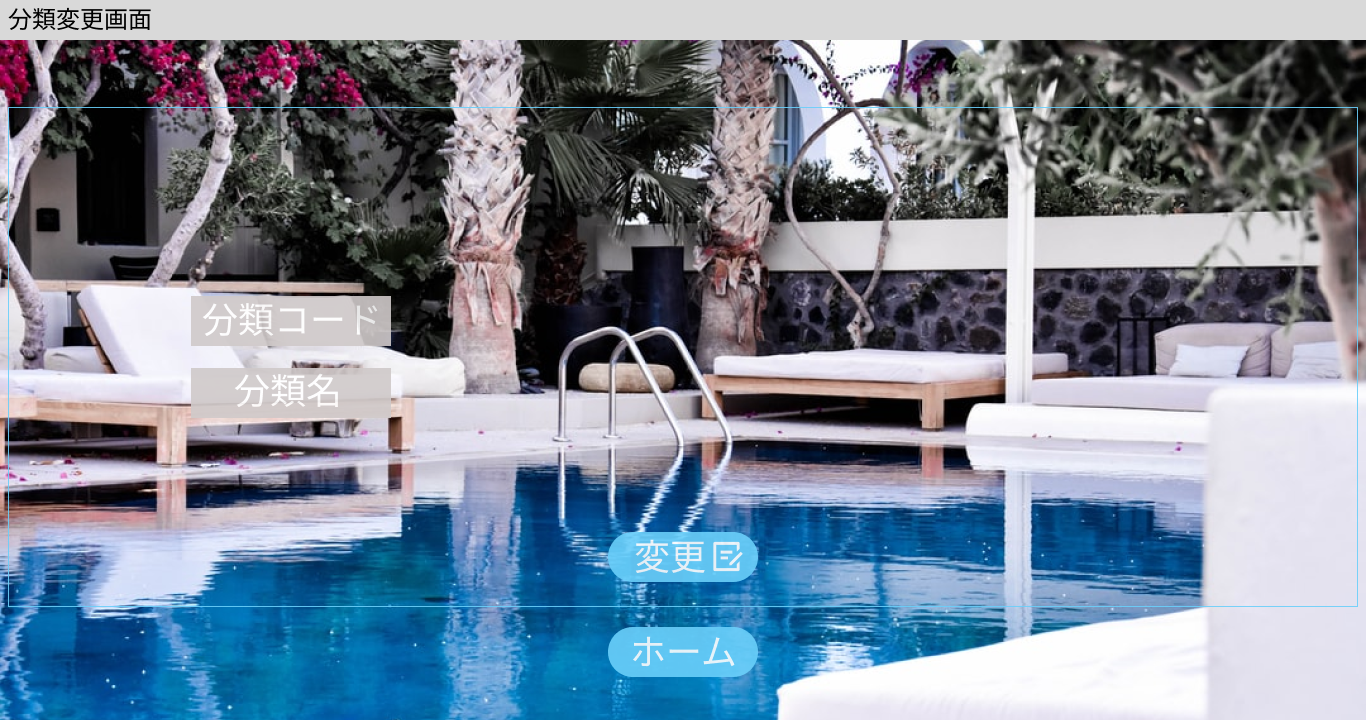
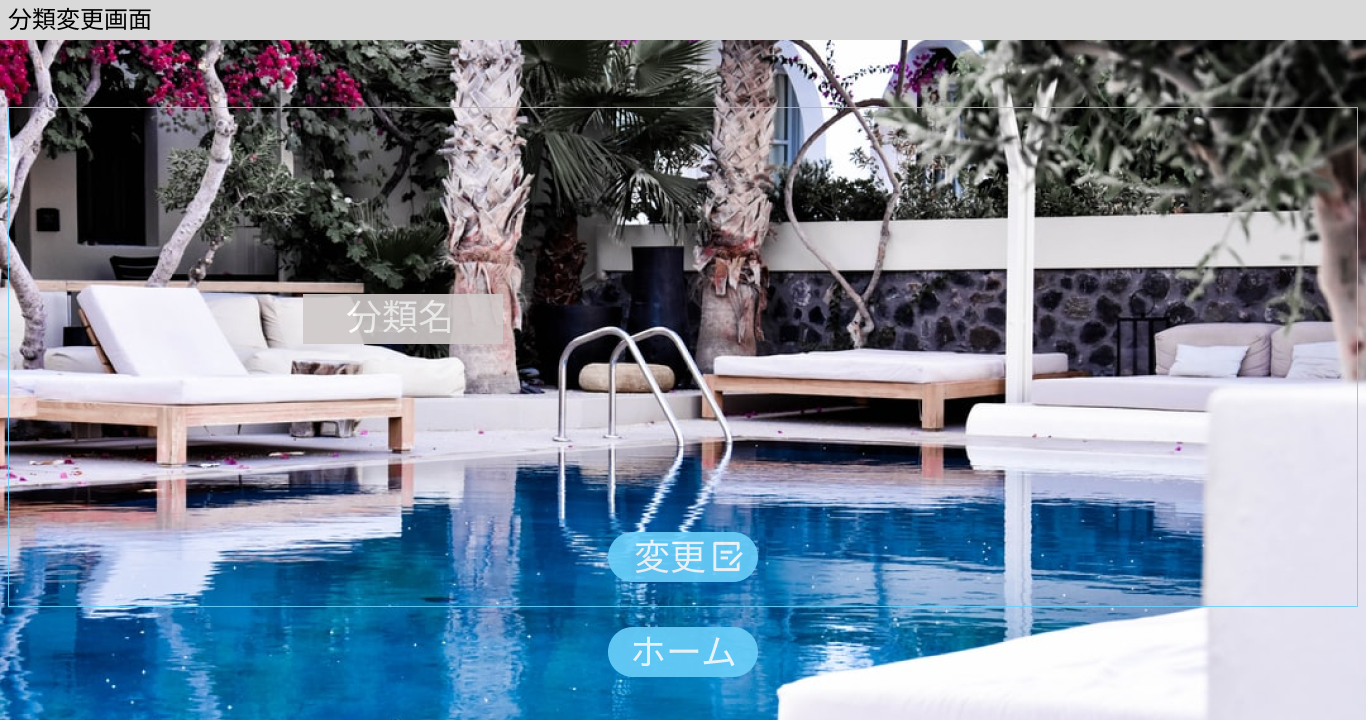
add kansei

Changed region(s): [[0.123, 0.3972, 0.369, 0.5806]]

diff --git a/ThanksCardClient/Views/CreateThanksCard.xaml b/ThanksCardClient/Views/CreateThanksCard.xaml
@@ -14,31 +14,31 @@
         <Button Content="" HorizontalAlignment="Left" Height="50" Margin="509,576,0,0" VerticalAlignment="Top" Width="150" Opacity="0" Cursor="Hand" Command="{Binding SubmitCommand}"/>
         <!--Button Content="Button" HorizontalAlignment="Left" Height="50" Margin="708,576,0,0" VerticalAlignment="Top" Width="150" Opacity="0" Cursor="Hand" Command="{Binding ClearCommand}"/-->
         <Button Content="Button" HorizontalAlignment="Center" Height="50" Margin="0,650,0,0" VerticalAlignment="Top" Width="150" Opacity="0" Command="{Binding HomeCommand}" Cursor="Hand"/>
-        <TextBox HorizontalAlignment="Left" Height="40" Margin="275,72,0,0" TextWrapping="Wrap" Text="{Binding ThanksCard.Title}" VerticalAlignment="Top" Width="550" FontSize="24" Opacity="0.8"/>
-        <ComboBox x:Name="ToOrganizations" ItemsSource="{Binding Organizations}" DisplayMemberPath="OrganizationName" SelectedValuePath="Id" HorizontalAlignment="Left" Height="40" Margin="275,121,0,0" VerticalAlignment="Top" Width="470" FontSize="24" Opacity="0.8">
+        <TextBox HorizontalAlignment="Left" Height="40" Margin="275,72,0,0" TextWrapping="Wrap" Text="{Binding ThanksCard.Title}" VerticalAlignment="Top" Width="550" FontSize="24" Opacity="0.9"/>
+        <ComboBox x:Name="ToOrganizations" ItemsSource="{Binding Organizations}" DisplayMemberPath="OrganizationName" SelectedValuePath="Id" HorizontalAlignment="Left" Height="40" Margin="275,121,0,0" VerticalAlignment="Top" Width="470" FontSize="24" Opacity="0.9">
             <i:Interaction.Triggers>
                 <i:EventTrigger EventName="SelectionChanged">
                     <i:InvokeCommandAction Command="{Binding ToOrganizationsChangedCommand}" CommandParameter="{Binding ElementName=ToOrganizations, Path=SelectedValue}"/>
                 </i:EventTrigger>
             </i:Interaction.Triggers>
         </ComboBox>
-        <ComboBox ItemsSource="{Binding ToEmployees}" DisplayMemberPath="EmployeeName" SelectedValue="{Binding ThanksCard.ToId}" SelectedValuePath="Id" HorizontalAlignment="Left" Height="40" Margin="275,170,0,0" VerticalAlignment="Top" Width="350" FontSize="24" Opacity="0.8"/>
-        <ListBox ItemsSource="{Binding Classifications}" IsSynchronizedWithCurrentItem="True" SelectionMode="Multiple" DisplayMemberPath="ClassificationName" HorizontalAlignment="Left" Height="89" Margin="857,121,0,0" VerticalAlignment="Top" Width="210" FontSize="24" Opacity="0.8">
+        <ComboBox ItemsSource="{Binding ToEmployees}" DisplayMemberPath="EmployeeName" SelectedValue="{Binding ThanksCard.ToId}" SelectedValuePath="Id" HorizontalAlignment="Left" Height="40" Margin="275,170,0,0" VerticalAlignment="Top" Width="350" FontSize="24" Opacity="0.9"/>
+        <ListBox ItemsSource="{Binding Classifications}" IsSynchronizedWithCurrentItem="True" SelectionMode="Multiple" DisplayMemberPath="ClassificationName" HorizontalAlignment="Left" Height="89" Margin="857,121,0,0" VerticalAlignment="Top" Width="210" FontSize="24" Opacity="0.9">
             <ListBox.ItemContainerStyle>
                 <Style TargetType="ListBoxItem">
                     <Setter Property="IsSelected" Value="{Binding Selected}" />
                 </Style>
             </ListBox.ItemContainerStyle>
         </ListBox>
-        <TextBox HorizontalAlignment="Left" Height="175" Margin="275,222,0,0" TextWrapping="Wrap" Text="{Binding ThanksCard.Contents}" VerticalAlignment="Top" Width="792" FontSize="24" Opacity="0.8"/>
-        <ComboBox x:Name="FromOrganizations" ItemsSource="{Binding Organizations}" DisplayMemberPath="OrganizationName" SelectedValuePath="Id" HorizontalAlignment="Left" Height="40" Margin="275,407,0,0" VerticalAlignment="Top" Width="470" FontSize="24" Opacity="0.8">
+        <TextBox HorizontalAlignment="Left" Height="175" Margin="275,222,0,0" TextWrapping="Wrap" Text="{Binding ThanksCard.Contents}" VerticalAlignment="Top" Width="792" FontSize="24" Opacity="0.9"/>
+        <ComboBox x:Name="FromOrganizations" ItemsSource="{Binding Organizations}" DisplayMemberPath="OrganizationName" SelectedValuePath="Id" HorizontalAlignment="Left" Height="40" Margin="275,407,0,0" VerticalAlignment="Top" Width="470" FontSize="24" Opacity="0.9">
             <i:Interaction.Triggers>
                 <i:EventTrigger EventName="SelectionChanged">
                     <i:InvokeCommandAction Command="{Binding FromOrganizationsChangedCommand}" CommandParameter="{Binding ElementName=FromOrganizations, Path=SelectedValue}"/>
                 </i:EventTrigger>
             </i:Interaction.Triggers>
         </ComboBox>
-        <ComboBox ItemsSource="{Binding FromEmployees}" DisplayMemberPath="EmployeeName" SelectedValue="{Binding ThanksCard.FromId}" SelectedValuePath="Id" HorizontalAlignment="Left" Height="40" Margin="275,456,0,0" VerticalAlignment="Top" Width="350" FontSize="24" Opacity="0.8"/>
-        <DatePicker SelectedDate="{Binding ThanksCard.Date}" HorizontalAlignment="Left" Height="40" VerticalAlignment="Top" Width="350" Margin="275,506,0,0" FontSize="24"/>
+        <ComboBox ItemsSource="{Binding FromEmployees}" DisplayMemberPath="EmployeeName" SelectedValue="{Binding ThanksCard.FromId}" SelectedValuePath="Id" HorizontalAlignment="Left" Height="40" Margin="275,456,0,0" VerticalAlignment="Top" Width="350" FontSize="24" Opacity="0.9"/>
+        <DatePicker SelectedDate="{Binding ThanksCard.Date}" HorizontalAlignment="Left" Height="40" VerticalAlignment="Top" Width="350" Margin="275,506,0,0" FontSize="24" Opacity="0.9"/>
     </Grid>
 </UserControl>

diff --git a/ThanksCardClient/Views/ThanksCardDisplay.xaml b/ThanksCardClient/Views/ThanksCardDisplay.xaml
@@ -11,17 +11,18 @@
     </UserControl.Background>
     <Grid Visibility="Visible">
         <Grid.Background>
-            <ImageBrush ImageSource="/Views/表示画面.png"/>
+            <ImageBrush ImageSource="/Views/感謝カード表示.png"/>
         </Grid.Background>
-        <Button Command="{Binding HomeCommand}" HorizontalAlignment="Left" Height="62" Margin="122,34,0,0" VerticalAlignment="Top" Width="161" Opacity="0" Cursor="Hand"/>
-        <TextBox HorizontalAlignment="Left" Height="156" Margin="251,133,0,0" TextWrapping="Wrap" Text="{Binding ThanksCard.Contents}" VerticalAlignment="Top" Width="1017" FontSize="24" Background="{x:Null}" BorderBrush="#00000000" TextChanged="TextBox_TextChanged"/>
-        <TextBlock HorizontalAlignment="Left" Height="39" Margin="82,125,0,0" TextWrapping="Wrap" Text="{Binding ThanksCard.From.EmployeeName}" VerticalAlignment="Top" Width="163" FontSize="24" Padding="45,0,0,0"/>
-        <TextBlock HorizontalAlignment="Left" Height="39" Margin="82,199,0,0" TextWrapping="Wrap" Text="{Binding ThanksCard.To.EmployeeName}" VerticalAlignment="Top" Width="163" FontSize="24" Padding="45,0,0,0"/>
+        <Button Command="{Binding HomeCommand}" HorizontalAlignment="Left" Height="62" Margin="623,603,0,0" VerticalAlignment="Top" Width="161" Opacity="0" Cursor="Hand"/>
+        <TextBox HorizontalAlignment="Left" Height="233" Margin="256,343,0,0" TextWrapping="Wrap" Text="{Binding ThanksCard.Contents}" VerticalAlignment="Top" Width="1017" FontSize="24" Background="{x:Null}" BorderBrush="#00000000" TextChanged="TextBox_TextChanged"/>
+        <TextBlock HorizontalAlignment="Left" Height="39" Margin="123,313,0,0" TextWrapping="Wrap" Text="{Binding ThanksCard.From.EmployeeName}" VerticalAlignment="Top" Width="122" FontSize="24" Padding="45,0,0,0"/>
+        <TextBlock HorizontalAlignment="Left" Height="39" Margin="123,392,0,0" TextWrapping="Wrap" Text="{Binding ThanksCard.To.EmployeeName}" VerticalAlignment="Top" Width="122" FontSize="24" Padding="45,0,0,0"/>
         <TextBlock HorizontalAlignment="Left" Height="39" Margin="1130,44,0,0" TextWrapping="Wrap" Text="{Binding ThanksCard.Date}" VerticalAlignment="Top" Width="169" FontSize="24" Padding="40,0,0,0"/>
-        <Rectangle HorizontalAlignment="Left" Height="260" Margin="245,29,0,0" VerticalAlignment="Top" Width="920">
+        <Rectangle HorizontalAlignment="Center" Height="242" Margin="0,21,0,0" VerticalAlignment="Top" Width="920">
             <Rectangle.Fill>
                 <ImageBrush ImageSource="/Views/3424906.png"/>
             </Rectangle.Fill>
         </Rectangle>
+        <TextBlock HorizontalAlignment="Left" Height="50" Margin="297,274,0,0" TextWrapping="Wrap" Text="{Binding ThanksCard.Title}" VerticalAlignment="Top" Width="930" FontSize="36"/>
     </Grid>
 </UserControl>

diff --git a/ThanksCardClient/Views/EmployeeEdit.xaml b/ThanksCardClient/Views/EmployeeEdit.xaml
@@ -10,13 +10,13 @@
         <Grid.Background>
             <ImageBrush ImageSource="/Views/社員変更画面.png"/>
         </Grid.Background>
-        <TextBox HorizontalAlignment="Left" Height="50" Margin="550,132,0,0" TextWrapping="Wrap" Text="{Binding Employee.EmployeeCd}" VerticalAlignment="Top" Width="250"/>
-        <TextBox HorizontalAlignment="Left" Height="50" Margin="550,201,0,0" TextWrapping="Wrap" Text="{Binding Employee.EmployeeName}" VerticalAlignment="Top" Width="350"/>
-        <TextBox HorizontalAlignment="Left" Height="50" Margin="550,275,0,0" TextWrapping="Wrap" Text="{Binding Employee.Furigana}" VerticalAlignment="Top" Width="350"/>
-        <TextBox HorizontalAlignment="Left" Height="50" Margin="550,349,0,0" TextWrapping="Wrap" Text="{Binding Employee.Password}" VerticalAlignment="Top" Width="250"/>
+        <TextBox HorizontalAlignment="Left" Height="50" Margin="550,132,0,0" TextWrapping="Wrap" Text="{Binding Employee.EmployeeCd}" VerticalAlignment="Top" Width="250" Opacity="0.9" FontSize="36"/>
+        <TextBox HorizontalAlignment="Left" Height="50" Margin="550,201,0,0" TextWrapping="Wrap" Text="{Binding Employee.EmployeeName}" VerticalAlignment="Top" Width="350" Opacity="0.9" FontSize="36"/>
+        <TextBox HorizontalAlignment="Left" Height="50" Margin="550,275,0,0" TextWrapping="Wrap" Text="{Binding Employee.Furigana}" VerticalAlignment="Top" Width="350" Opacity="0.9" FontSize="36"/>
+        <TextBox HorizontalAlignment="Left" Height="50" Margin="550,349,0,0" TextWrapping="Wrap" Text="{Binding Employee.Password}" VerticalAlignment="Top" Width="250" Opacity="0.9" FontSize="36"/>
         <Button Content="" HorizontalAlignment="Center" Height="50" Margin="0,571,0,0" VerticalAlignment="Top" Width="150" Opacity="0.012" Command="{Binding SubmitCommand}" Cursor="Hand"/>
         <Button Content="" HorizontalAlignment="Center" Height="50" Margin="0,642,0,0" VerticalAlignment="Top" Width="150" Opacity="0.012" Command="{Binding HomeCommand}" Cursor="Hand"/>
-        <ComboBox ItemsSource="{Binding Organizations}" DisplayMemberPath="OrganizationName" SelectedValue="{Binding Employee.OrganizationId}" SelectedValuePath="Id" HorizontalAlignment="Left" Height="56" Margin="550,422,0,0" VerticalAlignment="Top" Width="370"/>
+        <ComboBox ItemsSource="{Binding Organizations}" DisplayMemberPath="OrganizationName" SelectedValue="{Binding Employee.OrganizationId}" SelectedValuePath="Id" HorizontalAlignment="Left" Height="56" Margin="550,422,0,0" VerticalAlignment="Top" Width="370" Opacity="0.9" FontSize="36"/>
         <CheckBox Content="" HorizontalAlignment="Left" Margin="565,517,0,0" VerticalAlignment="Top" IsChecked="{Binding Employee.IsAdmin}"/>
     </Grid>
 </UserControl>

diff --git a/ThanksCardClient/Views/SendBox.xaml b/ThanksCardClient/Views/SendBox.xaml
@@ -14,11 +14,11 @@
             <ImageBrush ImageSource="/Views/送信BOX画面.png"/>
         </Grid.Background>
         <Button Command="{Binding HomeCommand}" HorizontalAlignment="Left" Height="50" Margin="644,642,0,0" VerticalAlignment="Top" Width="150" Opacity="0" Cursor="Hand"/>
-        <DataGrid ItemsSource="{Binding ThanksCards}" AutoGenerateColumns="False" CanUserAddRows="False" Margin="9,64,10,110" Opacity="0.8" FontSize="24">
+        <DataGrid ItemsSource="{Binding ThanksCards}" AutoGenerateColumns="False" CanUserAddRows="False" Margin="83,70,83,110" Opacity="0.8" FontSize="24" Height="540">
             <DataGrid.Columns>
-                <DataGridTextColumn Header="件名" Binding="{Binding Title}" Width="500" />
+                <DataGridTextColumn Header="件名" Binding="{Binding Title}" Width="400" />
                 <DataGridTextColumn Header="宛先" Binding="{Binding To.EmployeeName}" Width="400" />
-                <DataGridTextColumn Header="日付" Binding="{Binding Date}" Width="300" />
+                <DataGridTextColumn Header="日付" Binding="{Binding Date}" Width="275" />
 
                 <DataGridTemplateColumn Header="" Width="100">
                     <DataGridTemplateColumn.CellTemplate>
@@ -27,15 +27,17 @@
                             <Button Content="詳細" Command="{Binding DataContext.ThanksCardDisplayCommand, RelativeSource={RelativeSource AncestorType=DataGrid}}" CommandParameter="{Binding}" />
                         </DataTemplate>
                     </DataGridTemplateColumn.CellTemplate>
-                </DataGridTemplateColumn>
+                    <!--</DataGridTemplateColumn>
                 <DataGridTemplateColumn Header="" Width="100">
                     <DataGridTemplateColumn.CellTemplate>
                         <DataTemplate>
-                            <!--<CheckBox Content="" IsChecked="{Binding IsSelected.Value, Mode=TwoWay, UpdateSourceTrigger=PropertyChanged}"
+                            -->
+                    <!--<CheckBox Content="" IsChecked="{Binding IsSelected.Value, Mode=TwoWay, UpdateSourceTrigger=PropertyChanged}"
                       HorizontalAlignment="Center" VerticalAlignment="Center" x:Name="termsOfServiceCheckBox"/>-->
+                    <!--
                             <CheckBox Content="確認" IsEnabled="{Binding Receive.checkBox}"/>
                         </DataTemplate>
-                    </DataGridTemplateColumn.CellTemplate>
+                    </DataGridTemplateColumn.CellTemplate>-->
                 </DataGridTemplateColumn>
             </DataGrid.Columns>
         </DataGrid>

diff --git a/ThanksCardClient/Views/EmployeeMg.xaml b/ThanksCardClient/Views/EmployeeMg.xaml
@@ -10,14 +10,14 @@
         <Grid.Background>
             <ImageBrush ImageSource="/Views/社員管理画面.png"/>
         </Grid.Background>
-        <DataGrid Margin="49,136,49,136" ItemsSource="{Binding Employees}" AutoGenerateColumns="False" CanUserAddRows="False" Width="1268" Height="448">
+        <DataGrid Margin="49,136,49,136" ItemsSource="{Binding Employees}" AutoGenerateColumns="False" CanUserAddRows="False" Width="1268" Height="448" FontSize="36" Opacity="0.8">
             <DataGrid.Columns>
-                <DataGridTextColumn Header="社員コード" Binding="{Binding EmployeeCd}" />
-                <DataGridTextColumn Header="名前" Binding="{Binding EmployeeName}" />
-                <DataGridTextColumn Header="フリガナ" Binding="{Binding Furigana}" />
-                <DataGridTextColumn Header="パスワード" Binding="{Binding Password}" />
+                <DataGridTextColumn Header="社員コード" Binding="{Binding EmployeeCd}" Width="170" />
+                <DataGridTextColumn Header="名前" Binding="{Binding EmployeeName}" Width="200" />
+                <DataGridTextColumn Header="フリガナ" Binding="{Binding Furigana}" Width="200" />
                 <DataGridTextColumn Header="管理者" Binding="{Binding IsAdmin}" />
-                <DataGridTextColumn Header="部署" Binding="{Binding Organization.OrganizationName}" />
+                <DataGridTextColumn Header="親組織" Binding="{Binding Organization.Parent.OrganizationName}" Width="200" />
+                <DataGridTextColumn Header="組織" Binding="{Binding Organization.OrganizationName}" Width="200" />
                 <DataGridTemplateColumn Header="">
                     <DataGridTemplateColumn.CellTemplate>
                         <DataTemplate>
@@ -35,7 +35,7 @@
                 </DataGridTemplateColumn>
             </DataGrid.Columns>
         </DataGrid>
-                <Button Content="Button" HorizontalAlignment="Center" Height="50" Margin="0,642,0,0" VerticalAlignment="Top" Width="150" Opacity="0.008" Command="{Binding HomeCommand}" Cursor="Hand"/>
+        <Button Content="Button" HorizontalAlignment="Center" Height="50" Margin="0,642,0,0" VerticalAlignment="Top" Width="150" Opacity="0.008" Command="{Binding HomeCommand}" Cursor="Hand"/>
         <Button Content="" HorizontalAlignment="Left" Height="50" Margin="7,47,0,0" VerticalAlignment="Top" Width="230" Opacity="0.008" Command="{Binding EmployeeCreateCommand}" Cursor="Hand"/>
     </Grid>
 </UserControl>

diff --git a/ThanksCardClient/Views/EmployeeCreate.xaml b/ThanksCardClient/Views/EmployeeCreate.xaml
@@ -10,11 +10,11 @@
         <Grid.Background>
             <ImageBrush ImageSource="/Views/社員登録画面.png"/>
         </Grid.Background>
-        <TextBox HorizontalAlignment="Left" Height="50" Margin="550,132,0,0" TextWrapping="Wrap" Text="{Binding Employee.EmployeeCd}" VerticalAlignment="Top" Width="250"/>
-        <TextBox HorizontalAlignment="Left" Height="50" Margin="550,208,0,0" TextWrapping="Wrap" Text="{Binding Employee.EmployeeName}" VerticalAlignment="Top" Width="350"/>
-        <TextBox HorizontalAlignment="Left" Height="50" Margin="550,281,0,0" TextWrapping="Wrap" Text="{Binding Employee.Furigana}" VerticalAlignment="Top" Width="350"/>
-        <TextBox HorizontalAlignment="Left" Height="50" Margin="550,357,0,0" TextWrapping="Wrap" Text="{Binding Employee.Password}" VerticalAlignment="Top" Width="250"/>
-        <ComboBox ItemsSource="{Binding Organizations}" DisplayMemberPath="OrganizationName" SelectedValue="{Binding Employee.OrganizationId}" SelectedValuePath="Id" HorizontalAlignment="Left" Height="50" Margin="550,432,0,0" VerticalAlignment="Top" Width="350"/>
+        <TextBox HorizontalAlignment="Left" Height="50" Margin="550,132,0,0" TextWrapping="Wrap" Text="{Binding Employee.EmployeeCd}" VerticalAlignment="Top" Width="250" Opacity="0.9" FontSize="36"/>
+        <TextBox HorizontalAlignment="Left" Height="50" Margin="550,208,0,0" TextWrapping="Wrap" Text="{Binding Employee.EmployeeName}" VerticalAlignment="Top" Width="350" Opacity="0.9" FontSize="36"/>
+        <TextBox HorizontalAlignment="Left" Height="50" Margin="550,281,0,0" TextWrapping="Wrap" Text="{Binding Employee.Furigana}" VerticalAlignment="Top" Width="350" Opacity="0.9" FontSize="36"/>
+        <TextBox HorizontalAlignment="Left" Height="50" Margin="550,357,0,0" TextWrapping="Wrap" Text="{Binding Employee.Password}" VerticalAlignment="Top" Width="250" Opacity="0.9" FontSize="36"/>
+        <ComboBox ItemsSource="{Binding Organizations}" DisplayMemberPath="OrganizationName" SelectedValue="{Binding Employee.OrganizationId}" SelectedValuePath="Id" HorizontalAlignment="Left" Height="50" Margin="550,432,0,0" VerticalAlignment="Top" Width="350" Opacity="0.9" FontSize="36"/>
         <CheckBox Content="" HorizontalAlignment="Left" Margin="566,525,0,0" VerticalAlignment="Top" Width="16" IsChecked="{Binding Employee.IsAdmin}">
             <CheckBox.Style>
                 <Style/>

diff --git a/ThanksCardClient/Views/ReceiveBox.xaml b/ThanksCardClient/Views/ReceiveBox.xaml
@@ -11,20 +11,19 @@
     </UserControl.Background>
     <Grid>
         <Grid.Background>
-            <ImageBrush ImageSource="/Views/受信BOX画面 (1).png"/>
+            <ImageBrush ImageSource="/Views/受信BOX画面.png"/>
         </Grid.Background>
         <Button Command="{Binding HomeCommand}" HorizontalAlignment="Center" Height="50" Margin="0,639,0,0" VerticalAlignment="Top" Width="150" Opacity="0" Cursor="Hand"/>
-        <DataGrid ItemsSource="{Binding ThanksCards}" AutoGenerateColumns="False" CanUserAddRows="False" Margin="9,64,10,110">
+        <DataGrid ItemsSource="{Binding ThanksCards}" AutoGenerateColumns="False" CanUserAddRows="False" Margin="83,64,83,110" FontSize="36" Opacity="0.8">
             <DataGrid.Columns>
-                <DataGridTextColumn Header="件名" Binding="{Binding Title}" Width="300" />
-                <DataGridTextColumn Header="差出人" Binding="{Binding From.EmployeeName}" Width="300" />
-                <DataGridTextColumn Header="日付" Binding="{Binding Date}" Width="300" />
-                
+                <DataGridTextColumn Header="件名" Binding="{Binding Title}" Width="400" />
+                <DataGridTextColumn Header="差出人" Binding="{Binding From.EmployeeName}" Width="400" />
+                <DataGridTextColumn Header="日付" Binding="{Binding Date}" Width="275" />
                 <DataGridTemplateColumn Header="">
                     <DataGridTemplateColumn.CellTemplate>
                         <DataTemplate>
                             <!-- CommandParameter に {Binding} とだけ記述すると、UserMstViewModel.Users の要素、つまり User モデルを指定したことになる。-->
-                            <Button Content="カード詳細" Command="{Binding DataContext.ThanksCardDisplayCommand, RelativeSource={RelativeSource AncestorType=DataGrid}}" CommandParameter="{Binding}" Width="300" />
+                            <Button Content="詳細" Command="{Binding DataContext.ThanksCardDisplayCommand, RelativeSource={RelativeSource AncestorType=DataGrid}}" CommandParameter="{Binding}" />
                         </DataTemplate>
                     </DataGridTemplateColumn.CellTemplate>
                 </DataGridTemplateColumn>

diff --git a/ThanksCardClient/Views/OrganizationCreate.xaml b/ThanksCardClient/Views/OrganizationCreate.xaml
@@ -12,9 +12,9 @@
         <Grid.Background>
             <ImageBrush ImageSource="/Views/組織登録画面.png"/>
         </Grid.Background>
-        <TextBox HorizontalAlignment="Left" Height="50" Margin="426,258,0,0" TextWrapping="Wrap" Text="{Binding Organization.OrganizationCd}" VerticalAlignment="Top" Width="250" FontSize="36"/>
-        <ComboBox SelectedItem="{Binding Organization.Parent}" ItemsSource="{Binding Organizations}" DisplayMemberPath="OrganizationName" SelectedValue="{Binding Organization.Parent}" HorizontalAlignment="Left" Height="50" Margin="426,333,0,0" VerticalAlignment="Top" Width="400" FontSize="36"/>
-        <TextBox HorizontalAlignment="Left" Height="50" Margin="426,409,0,0" TextWrapping="Wrap" Text="{Binding Organization.OrganizationName}" VerticalAlignment="Top" Width="400" FontSize="36"/>
+        <TextBox HorizontalAlignment="Left" Height="50" Margin="426,258,0,0" TextWrapping="Wrap" Text="{Binding Organization.OrganizationCd}" VerticalAlignment="Top" Width="250" FontSize="36" Opacity="0.9"/>
+        <ComboBox SelectedItem="{Binding Organization.Parent}" ItemsSource="{Binding Organizations}" DisplayMemberPath="OrganizationName" SelectedValue="{Binding Organization.Parent}" HorizontalAlignment="Left" Height="50" Margin="426,333,0,0" VerticalAlignment="Top" Width="400" FontSize="36" Opacity="0.9"/>
+        <TextBox HorizontalAlignment="Left" Height="50" Margin="426,409,0,0" TextWrapping="Wrap" Text="{Binding Organization.OrganizationName}" VerticalAlignment="Top" Width="400" FontSize="36" Opacity="0.9"/>
         <Button Content="" Command="{Binding SubmitCommand}" HorizontalAlignment="Center" Height="50" Margin="0,533,0,0" VerticalAlignment="Top" Width="150" Opacity="0.002" Cursor="Hand"/>
         <Button Content="" Command="{Binding HomeCommand}" HorizontalAlignment="Center" Height="50" Margin="0,630,0,0" VerticalAlignment="Top" Width="150" Opacity="0.002" Cursor="Hand"/>
     </Grid>

diff --git a/ThanksCardClient/Views/OrganizationEdit.xaml b/ThanksCardClient/Views/OrganizationEdit.xaml
@@ -16,9 +16,9 @@
         <Grid.Background>
             <ImageBrush ImageSource="/Views/組織変更画面.png"/>
         </Grid.Background>
-        <TextBox HorizontalAlignment="Left" Height="50" Margin="425,259,0,0" TextWrapping="Wrap" Text="{Binding Organization.OrganizationCd}" VerticalAlignment="Top" Width="250"/>
-        <ComboBox SelectedItem="{Binding Organization.Parent}" ItemsSource="{Binding Organizations}" DisplayMemberPath="Name" SelectedValue="{Binding Organization.Parent}" HorizontalAlignment="Left" Height="50" Margin="425,333,0,0" VerticalAlignment="Top" Width="400"/>
-        <TextBox HorizontalAlignment="Left" Height="50" Margin="425,410,0,0" TextWrapping="Wrap" Text="{Binding Organization.OrganizationName}" VerticalAlignment="Top" Width="400"/>
+        <TextBox HorizontalAlignment="Left" Height="50" Margin="425,259,0,0" TextWrapping="Wrap" Text="{Binding Organization.OrganizationCd}" VerticalAlignment="Top" Width="250" Opacity="0.9" FontSize="36"/>
+        <ComboBox SelectedItem="{Binding Organization.Parent}" ItemsSource="{Binding Organizations}" DisplayMemberPath="OrganizationName" SelectedValue="{Binding Organization.Parent}" HorizontalAlignment="Left" Height="50" Margin="425,333,0,0" VerticalAlignment="Top" Width="400" Opacity="0.9" FontSize="36"/>
+        <TextBox HorizontalAlignment="Left" Height="50" Margin="425,410,0,0" TextWrapping="Wrap" Text="{Binding Organization.OrganizationName}" VerticalAlignment="Top" Width="400" Opacity="0.9" FontSize="36"/>
         <Button Content="" Command="{Binding SubmitCommand}" HorizontalAlignment="Center" Height="50" Margin="0,65,0,0" VerticalAlignment="Top" Width="150" Opacity="0" Grid.Row="1" Cursor="Hand"/>
         <Button Content="" Command="{Binding HomeCommand}" HorizontalAlignment="Center" Height="50" Margin="0,162,0,0" VerticalAlignment="Top" Width="150" Opacity="0" Grid.Row="1" Cursor="Hand"/>
     </Grid>

diff --git a/ThanksCardClient/Views/Home.xaml b/ThanksCardClient/Views/Home.xaml
@@ -20,11 +20,11 @@
         <Button Content="Button" HorizontalAlignment="Left" Height="50" Margin="539,638,0,0" VerticalAlignment="Top" Width="150" Opacity="0" Command="{Binding OrganizationMgCommand}" Cursor="Hand" IsEnabled="{Binding AuthorizedEmployee.IsAdmin}"/>
         <Button Content="" HorizontalAlignment="Left" Height="50" Margin="714,638,0,0" VerticalAlignment="Top" Width="150" Opacity="0" Command="{Binding ClassificationMgCommand}" Cursor="Hand" IsEnabled="{Binding AuthorizedEmployee.IsAdmin}"/>
         <Button Content="" HorizontalAlignment="Left" Height="50" Margin="421,471,0,0" VerticalAlignment="Top" Width="150" Opacity="0" Command="{Binding AggregationCommand}" Cursor="Hand"/>
-        <Button Content="" HorizontalAlignment="Left" Height="80" Margin="1252,627,0,0" VerticalAlignment="Top" Width="80" Opacity="0" Command="{Binding ManualCommand}" Cursor="Hand"/>
-        <DataGrid Margin="72,150,843,318" ItemsSource="{Binding Ranks}" AutoGenerateColumns="False" CanUserAddRows="False">
+        <Button Content="" HorizontalAlignment="Left" Height="80" Margin="1252,606,0,0" VerticalAlignment="Top" Width="80" Opacity="0" Command="{Binding ManualCommand}" Cursor="Hand"/>
+        <DataGrid Margin="72,150,843,318" ItemsSource="{Binding Ranks}" AutoGenerateColumns="False" CanUserAddRows="False" FontSize="24" Opacity="0.8">
             <DataGrid.Columns>
-                <DataGridTextColumn Header="名前" Binding="{Binding Name}" />
-                <DataGridTextColumn Header="総数" Binding="{Binding Count}" />
+                <DataGridTextColumn Header="名前" Binding="{Binding Name}" Width="218" />
+                <DataGridTextColumn Header="総数" Binding="{Binding Count}" Width="218" />
             </DataGrid.Columns>
         </DataGrid>
     </Grid>

diff --git a/ThanksCardClient/Views/ClassificationEdit.xaml b/ThanksCardClient/Views/ClassificationEdit.xaml
@@ -10,12 +10,12 @@
         <Grid.Background>
             <ImageBrush ImageSource="/Views/分類変更画面.png"/>
         </Grid.Background>
-        <TextBox Text="{Binding Classification.ClassificationName}" HorizontalAlignment="Left" Height="49" Margin="392,369,0,0" TextWrapping="Wrap"  VerticalAlignment="Top" Width="369" FontSize="36" BorderThickness="0,0,0,0" SnapsToDevicePixels="True"/>
-        <Button Command="{Binding SubmitCommand}" HorizontalAlignment="Center" Height="60" Margin="0,530,0,0" VerticalAlignment="Top" Width="156" BorderBrush="#00000000" Opacity="0" Cursor="Hand">
+        <TextBox Text="{Binding Classification.ClassificationName}" HorizontalAlignment="Left" Height="49" Margin="504,294,0,0" TextWrapping="Wrap"  VerticalAlignment="Top" Width="369" FontSize="36" BorderThickness="0,0,0,0" SnapsToDevicePixels="True" Opacity="0.9"/>
+        <Button Command="{Binding SubmitCommand}" HorizontalAlignment="Center" Height="50" Margin="0,532,0,0" VerticalAlignment="Top" Width="150" BorderBrush="#00000000" Opacity="0" Cursor="Hand">
             <Button.Background>
                 <ImageBrush/>
             </Button.Background>
         </Button>
-        <Button Command="{Binding HomeCommand}" HorizontalAlignment="Center" Height="52" Margin="0,627,0,0" VerticalAlignment="Top" Width="156" Opacity="0" Cursor="Hand"/>
+        <Button Command="{Binding HomeCommand}" HorizontalAlignment="Center" Height="50" Margin="0,627,0,0" VerticalAlignment="Top" Width="150" Opacity="0" Cursor="Hand"/>
     </Grid>
 </UserControl>

diff --git a/ThanksCardClient/Views/Aggregation.xaml b/ThanksCardClient/Views/Aggregation.xaml
@@ -10,11 +10,11 @@
         <Grid.Background>
             <ImageBrush ImageSource="/Views/集計画面.png"/>
         </Grid.Background>
-        <DataGrid Margin="320,213,320,109" ItemsSource="{Binding AnalyzeDtoDs}" AutoGenerateColumns="False" CanUserAddRows="False">
+        <DataGrid Margin="320,213,320,109" ItemsSource="{Binding AnalyzeDtoDs}" AutoGenerateColumns="False" CanUserAddRows="False" CanUserResizeColumns="False" CanUserReorderColumns="False" FontSize="36" Opacity="0.8">
             <DataGrid.Columns>
-                <DataGridTextColumn Header="組織名" Binding="{Binding ToOrganizationName}" />
-                <DataGridTextColumn Header="組織名" Binding="{Binding FromOrganizationName}" />
-                <DataGridTextColumn Header="総数" Binding="{Binding ThanksCount}" />
+                <DataGridTextColumn Header="To組織名" Binding="{Binding ToOrganizationName}" Width="300" />
+                <DataGridTextColumn Header="From組織名" Binding="{Binding FromOrganizationName}" Width="300" />
+                <DataGridTextColumn Header="総数" Binding="{Binding ThanksCount}" Width="110" />
             </DataGrid.Columns>
         </DataGrid>
         <Button Command="{Binding HomeCommand}" Content="Button" HorizontalAlignment="Center" Height="50" Margin="0,624,0,0" VerticalAlignment="Top" Width="150" Opacity="0" Cursor="Hand"/>
